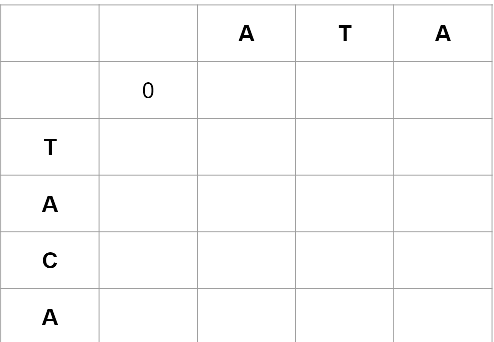
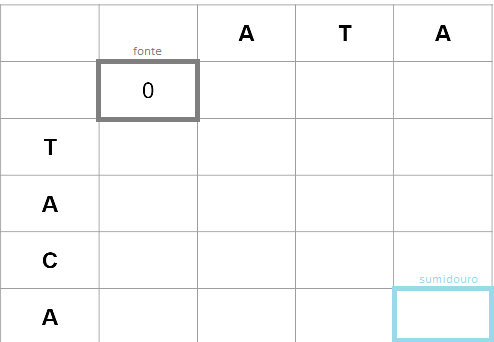
arrumando obs

Changed region(s): [[0.1822, 0.117, 0.4251, 0.3801], [0.7895, 0.7895, 1.0, 1.0]]

diff --git a/src/exemplo.md b/src/exemplo.md
@@ -44,10 +44,10 @@ São três as possibilidades:
 
 * Gap: utilizado para inserir lacunas nas sequências, de forma a estendê-las criando espaços vazios. Minimizar as lacunas é importante para criar um alinhamento útil, desta forma o Gap possui uma penalidade maior. ([penalidade de lacuna](https://pt.wikipedia.org/wiki/Penalidade_para_lacunas)).
 
-* Missmatch: corresponde aos nucleotídeos que estão desalinhados. Possui pontuação negativa porque queremos alinhar a sequência e não desalinhá-la. É contado especialmente quando damos passos na diagnonal, mas a letras (nucleotídeos) não são iguais.
+* Missmatch: corresponde aos nucleotídeos que estão desalinhados. Possui pontuação negativa porque queremos alinhar a sequência e não desalinhá-la. 
 
 
-* Match: correspode aos nucleotídeos que estão alinhados. É contado quando damos passos na diagonal e as letras são iguais.
+* Match: correspode aos nucleotídeos que estão alinhados. 
 
 
 Algoritmo 
@@ -65,9 +65,8 @@ Para determinarmos o melhor alinhamento de duas sequências, inicializamos a mat
 
 ![](matriz_inicial.png)
 
-COLOCAR FONTE E SUMIDOURO
 
-O ponto mais importante para você entender como que funciona o preenchimento dessa matriz é que cada célula representa uma versão menor do problema. Um pouco confuso não é? Vamos olhar so para as primeiras duas linhas:
+O ponto mais importante para você entender como que funciona o preenchimento dessa matriz é que cada célula representa uma versão menor do problema. Um pouco confuso não é? mas a ideia é sair da fonte e chegar ao sumidouro.Vamos olhar so para as primeiras duas linhas:
 
 ![](matriz_inicial_linha.png)
 
@@ -109,7 +108,7 @@ Agora é com você :)
 ::: Gabarito
 ;Coluna
 
-ARRUMAR ULTIMA FOTO
+
 
 Ou seja, apartir dessa coluna podemos concluir que todos os nucleotideos foram alinhados com Gaps, obtendo assim:
 1. o score de alinhamento de T com algo vazio é -2,
@@ -174,7 +173,11 @@ Agora é com você, preencha as outras células da matriz:
 
 ![](matriz_inteira4.png)
 
-colocar setas
+As setas vermelhas indicam gap.
+
+As setas laranjas indicam missmatch,é especialmente quando damos passos na diagnonal, mas a letras (nucleotídeos) não são iguais.
+
+E as setas verdes indicam match, é quando damos passos na diagonal e as letras são iguais.
 
 :::
 ???
